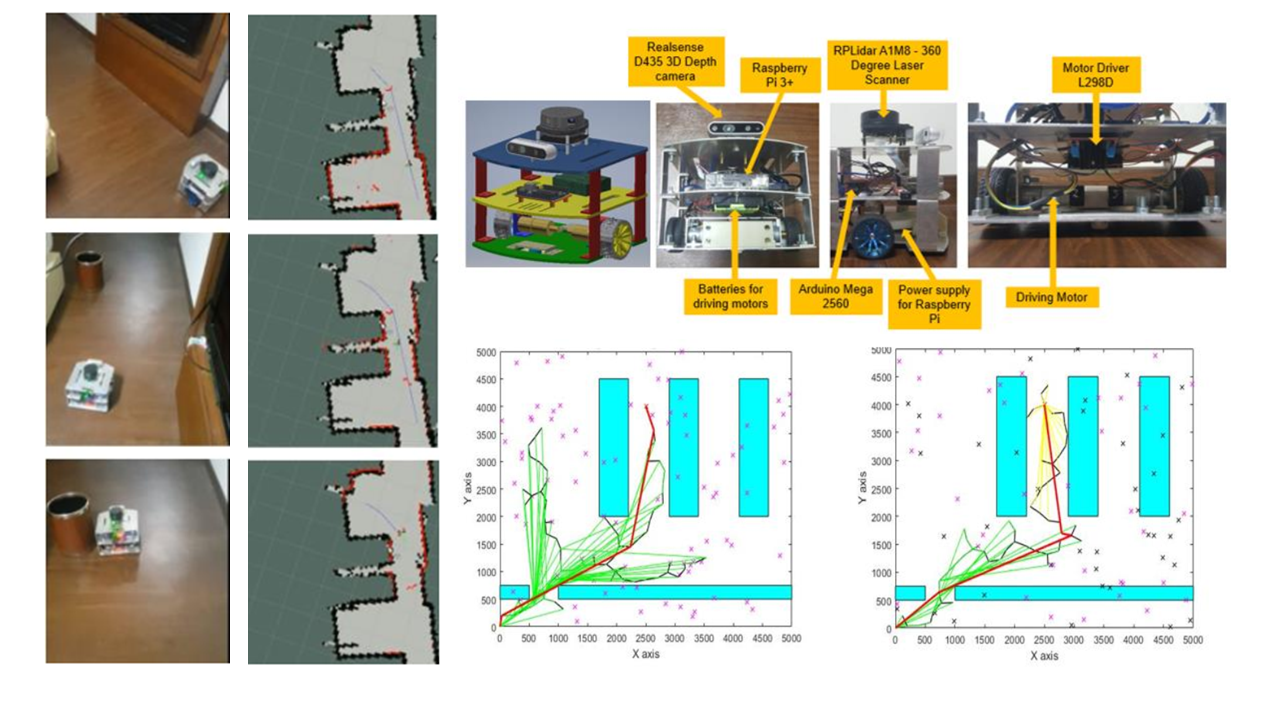
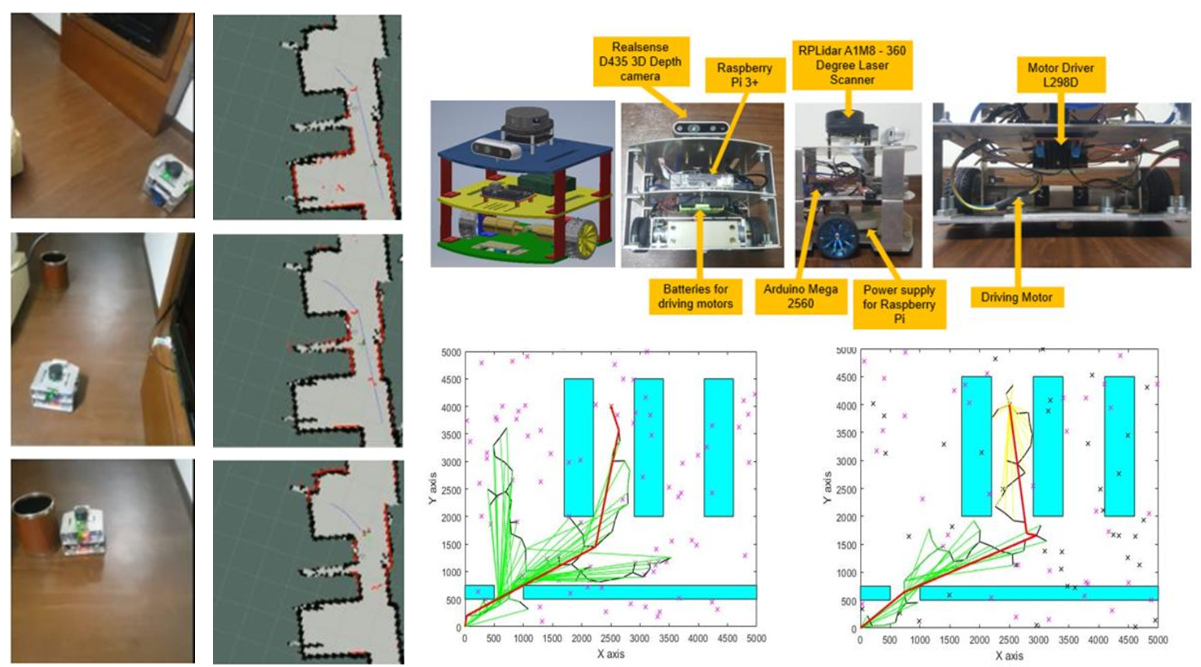
change some pic size

diff --git a/aotule.md b/aotule.md
@@ -17,22 +17,22 @@ I conducted research on the Chemical Plume Tracing (CPT) robot, integrating SLAM
 
 ### Images and Results:
 <center>
-  <img src="images/aotule.png" alt="Gas concentration map" />
+  <img src="images/aotule.png" alt="Gas concentration map" width="600"  />
   <p>(a) Mean gas concentration map (b) Gas concentration variance map obtained from post-processing sensor data using Kernel DM+V algorithm</p>
 </center>
 
 <center>
-  <img src="images/aotule_exp.gif" alt="Experiment GIF" />
+  <img src="images/aotule_exp.gif" alt="Experiment GIF" width="600"  />
   <p>Experiment of gas concentration sampling while doing SLAM</p>
 </center>
 
 <center>
-  <img src="images/kuralab19.jpg" alt="lab" />
+  <img src="images/kuralab19.jpg" alt="lab" width="600" />
   <p>Me and people at Kurabayashi Laboratory</p>
 </center>
 
 <center>
-  <img src="images/minna.png" alt="lab" />
+  <img src="images/minna.png" alt="lab" width="600" />
   <p>Me and other students in AOTULE program.</p>
 </center>
 
